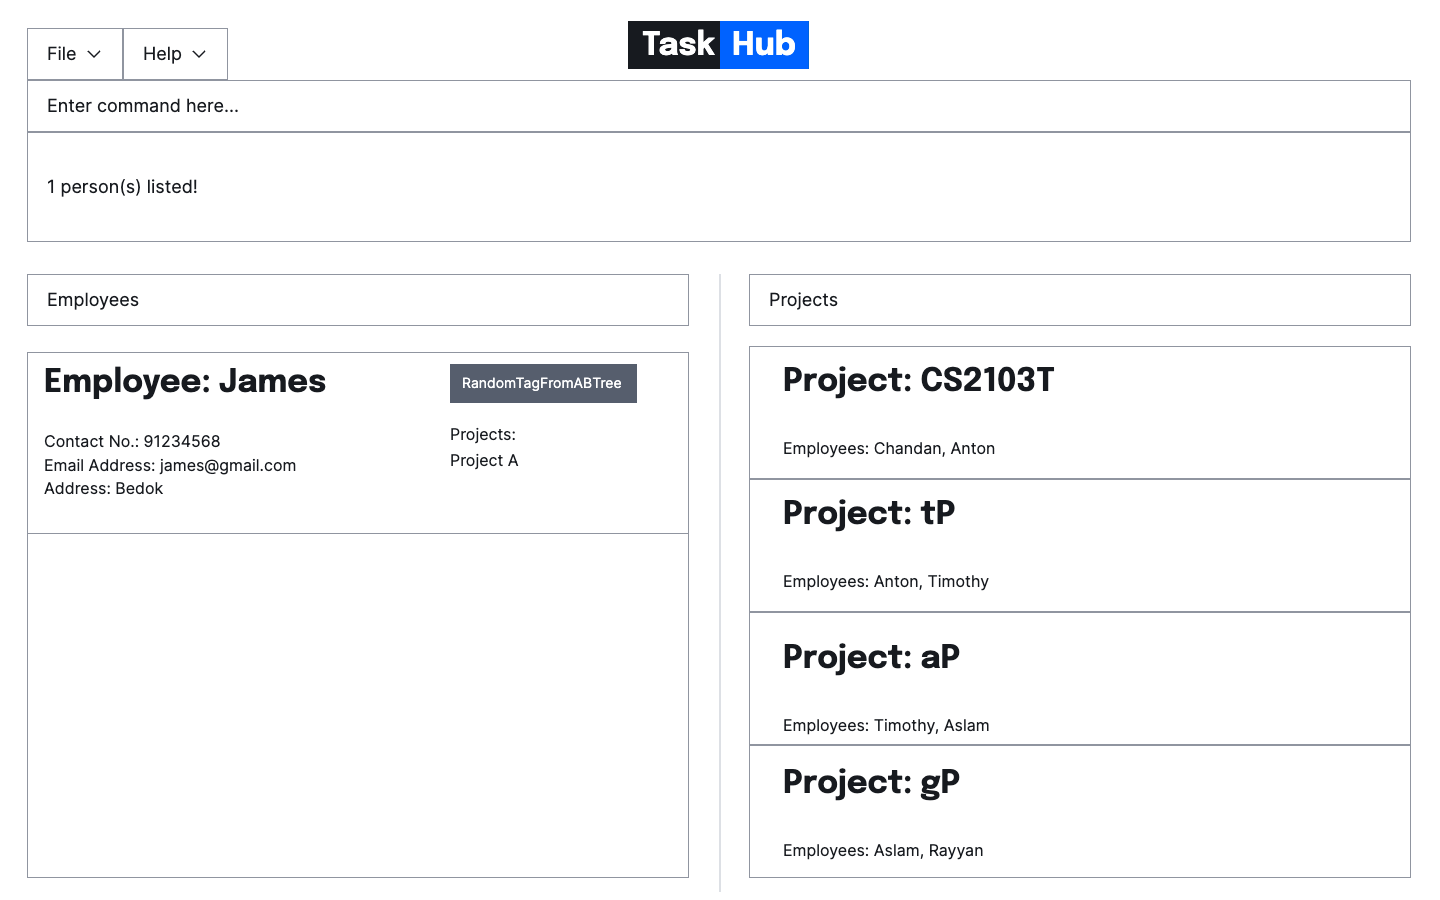
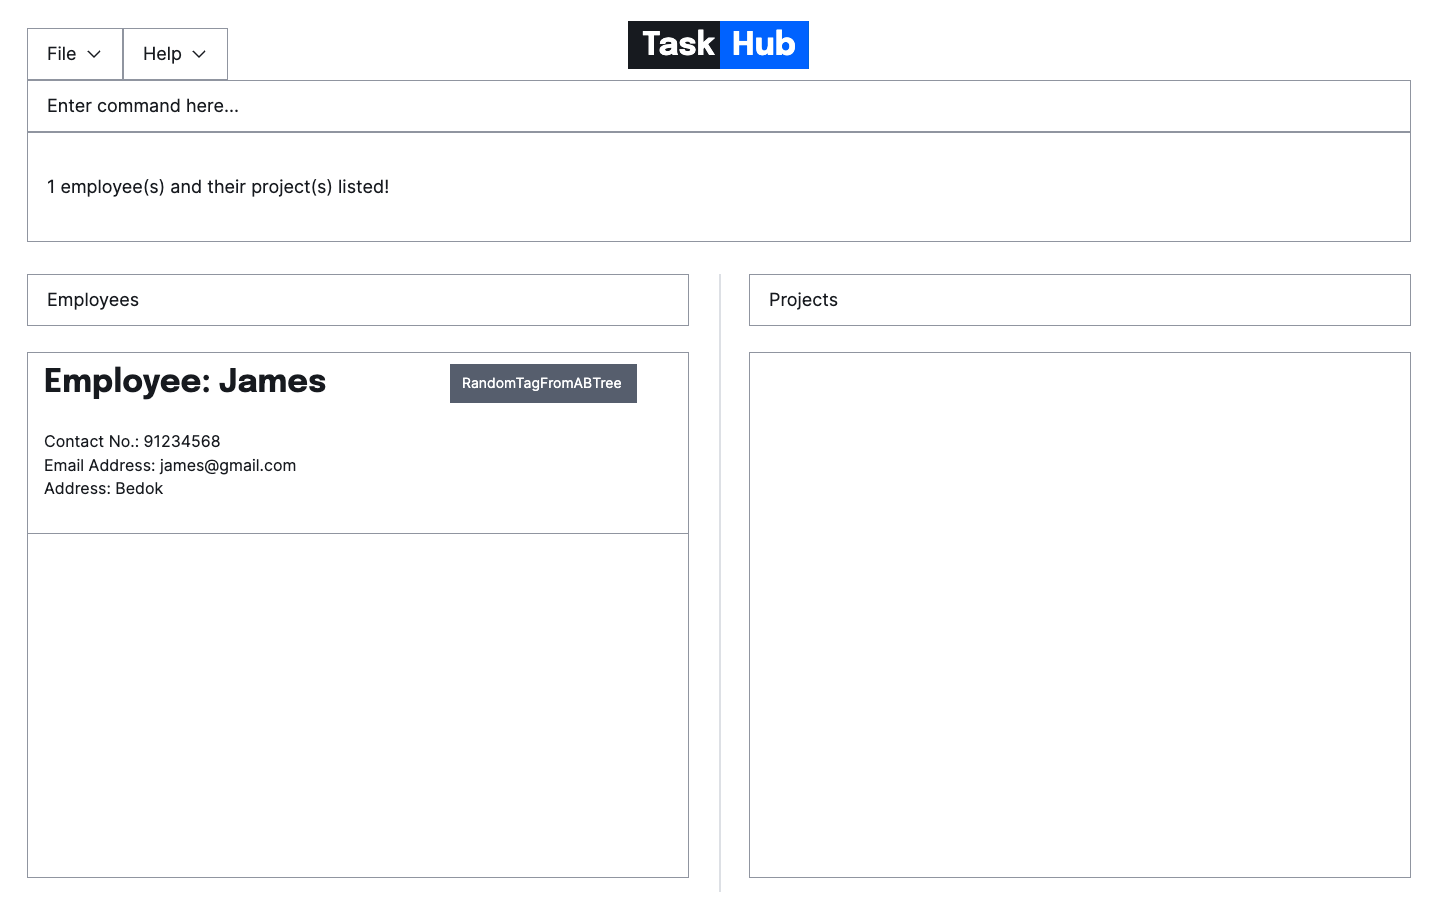
Update user guide

diff --git a/docs/UserGuide.md b/docs/UserGuide.md
@@ -84,6 +84,13 @@ Alternatively, quickly enter a `help` command into TaskHub to display the pop-up
 Format: `help`
 
 
+### Listing all employees and projects: `list`
+
+Shows a list of all employees and projects in TaskHub.
+
+Format: `list`
+
+
 ### Adding an employee: `addE`
 
 Adds an employee to the employees list.
@@ -127,6 +134,7 @@ Examples:
 ### Locating employees by name: `findE`
 
 Finds employees whose names contain any of the given keywords.
+Additionally, it shows only the projects that these employees are under.
 
 Format: `findE KEYWORD [MORE_KEYWORDS]`
 
@@ -134,7 +142,7 @@ Format: `findE KEYWORD [MORE_KEYWORDS]`
 * The order of the keywords does not matter. e.g. `Hans Bo` will match `Bo Hans`
 * Only the name is searched.
 * Only full words will be matched e.g. `Han` will not match `Hans`
-* employees matching at least one keyword will be returned (i.e. `OR` search).
+* Employees matching at least one keyword will be returned (i.e. `OR` search).
   e.g. `Hans Bo` will return `Hans Gruber`, `Bo Yang`
 
 Examples:
@@ -142,12 +150,6 @@ Examples:
 * `findE alex david` returns `Alex Yeoh`, `David Li`
 * `findE james` returns `James` <br>
   ![result for 'findE james'](images/findEjamesresult.png)
-
-### Listing all projects: `listP`
-
-Shows a list of all projects in TaskHub.
-
-![list example](images/listp.png)
 
 ### Deleting an employee : `deleteE`
 
@@ -181,6 +183,33 @@ Format: `addP pr/PROJECT_NAME [em/EMPLOYEE_INDEX] ...`
 Examples: 
 * `addP pr/Project1 em/1` will add `Project1` to the projects list with the employee index 1 assigned to the project.
 * `addP pr/Project2` will add an empty `Project2` to the projects list.
+
+### Listing all projects: `listP`
+
+Shows a list of all projects in TaskHub.
+
+![list example](images/listp.png)
+
+Format: `listP`
+
+### Locating projects by name: `findP`
+
+Finds projects whose names contain any of the given keywords.
+Additionally, it shows only the employees that are under these projects.
+
+Format: `findP KEYWORD [MORE_KEYWORDS]`
+
+* The search is case-insensitive. e.g `website` will match `Website`
+* The order of the keywords does not matter. e.g. `Create Website` will match `Website Create`
+* Only the name is searched.
+* Only full words will be matched e.g. `Website` will not match `Websites`
+* Projects matching at least one keyword will be returned (i.e. `OR` search).
+  e.g. `Website Model` will return `Create Website`, `Build Model`
+
+Examples:
+* `findP website model` returns `Create Website`, `Build Model`
+* `findP presentation` returns `Presentation` <br>
+  ![result for 'findP presentation'](images/findPpresentationresult.png)
 
 ### Assign employee(s) to a project: `assignE`
 
@@ -244,16 +273,19 @@ _Details coming soon ..._
 
 ## Command summary
 
-| Action                         | Format, Examples                                                                                                                                                                                 |
-|--------------------------------|--------------------------------------------------------------------------------------------------------------------------------------------------------------------------------------------------|
-| **List all employees**         | `listE`                                                                                                                                                                                          |
-| **Clear**                      | `clear`                                                                                                                                                                                          |
-| **Help**                       | `help`                                                                                                                                                                                           |
-| **Add Employee**               | `addE n/NAME p/PHONE_NUMBER e/EMAIL a/ADDRESS [t/TAG]… r/REMARK` <br> e.g., `addE n/James Ho p/22224444 e/jamesho@example.com a/123, Clementi Rd, 1234665 t/friend t/colleague r/a good friend` |
-| **Delete Employee**            | `deleteE INDEX`<br> e.g., `deleteE 3`                                                                                                                                                            |
-| **Find Employee**              | `findE KEYWORD [MORE_KEYWORDS]`<br> e.g., `findE James Jake`                                                                                                                                     |
-| **List Projects**              | `listP`                                                                                                                                                                                          |
-| **Add Project**                | `addP pr/PROJECT_NAME [em/EMPLOYEE_INDEX]…` <br> e.g, `addP pr/CS2103T em/2 3 4 5`                                                                                                              |
-| **Assign Employee to Project** | `assignE pr/PROJECT_INDEX em/EMPLOYEE_INDEX [em/MORE_EMPLOYEE_INDICES]…` <br> e.g, `assignE pr/4 em/1 2 3`                                                                                      |
-| **Delete Project**             | `deleteP INDEX`<br> e.g., `deleteP 3`                                                                                                                                                            |
+| Action                              | Format, Examples                                                                                                                                                                                 |
+|-------------------------------------|--------------------------------------------------------------------------------------------------------------------------------------------------------------------------------------------------|
+| **List All Employees**              | `listE`                                                                                                                                                                                          |
+| **Clear**                           | `clear`                                                                                                                                                                                          |
+| **Help**                            | `help`                                                                                                                                                                                           |
+| **Add Employee**                    | `addE n/NAME p/PHONE_NUMBER e/EMAIL a/ADDRESS [t/TAG]… r/REMARK` <br> e.g., `addE n/James Ho p/22224444 e/jamesho@example.com a/123, Clementi Rd, 1234665 t/friend t/colleague r/a good friend` |
+| **Delete Employee**                 | `deleteE INDEX`<br> e.g., `deleteE 3`                                                                                                                                                            |
+| **Find Employee**                   | `findE KEYWORD [MORE_KEYWORDS]`<br> e.g., `findE James Jake`                                                                                                                                     |
+| **List All Projects**               | `listP`                                                                                                                                                                                          |
+| **Add Project**                     | `addP pr/PROJECT_NAME [em/EMPLOYEE_INDEX]…` <br> e.g, `addP pr/CS2103T em/2 3 4 5`                                                                                                              |
+| **Assign Employee to Project**      | `assignE pr/PROJECT_INDEX em/EMPLOYEE_INDEX [em/MORE_EMPLOYEE_INDICES]…` <br> e.g, `assignE pr/4 em/1 2 3`                                                                                      |
+| **Delete Project**                  | `deleteP INDEX`<br> e.g., `deleteP 3`                                                                                                                                                            |
+| **Find Project**                    | `findP KEYWORD [MORE_KEYWORDS]`<br> e.g., `findP Website Create`                                                                                                                                 |
+| **List All Employees And Projects** | `list`                                                                                                                                                                                           |
+
 
